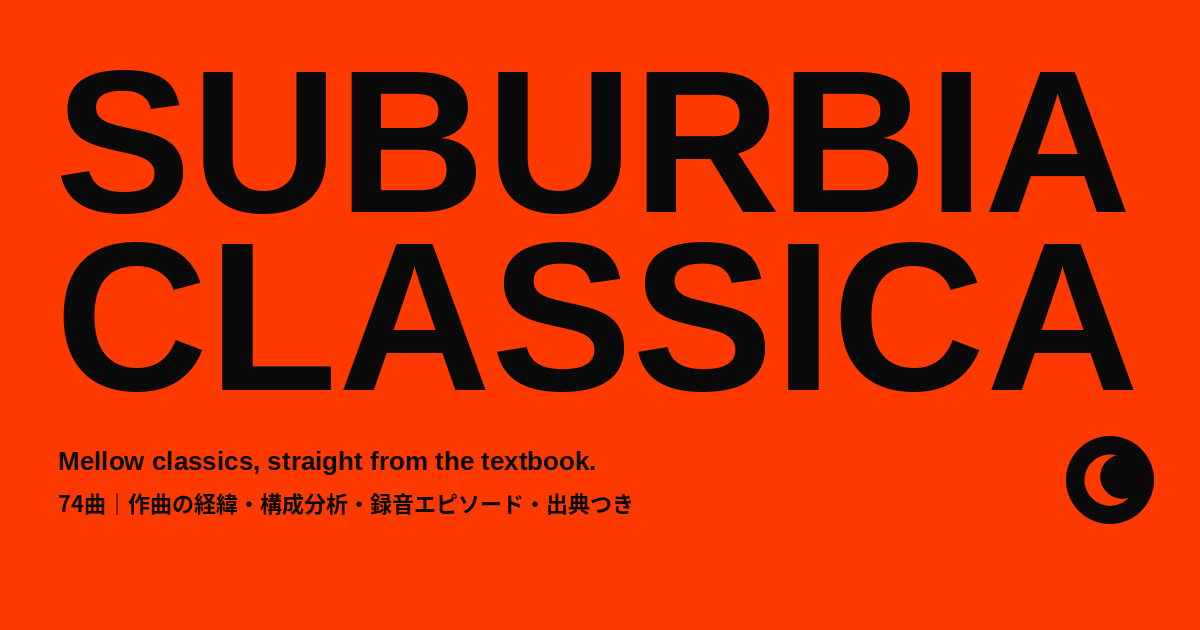
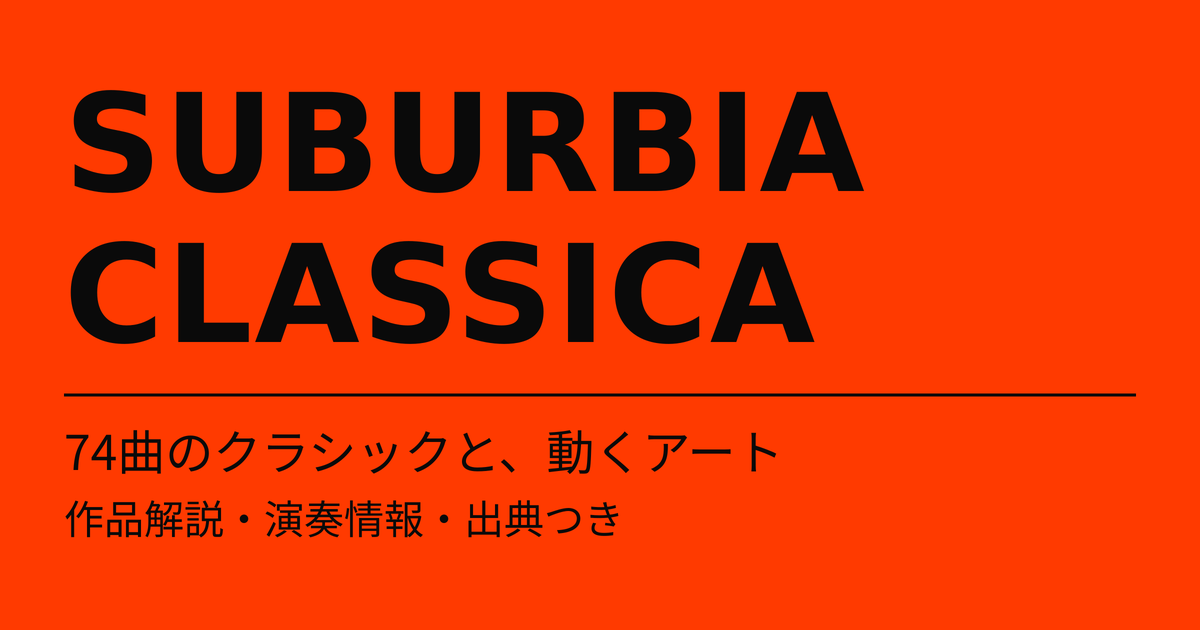
Improve home social-card typography and version the preview image

diff --git a/index.html b/index.html
@@ -5,7 +5,7 @@
 <meta name="viewport" content="width=device-width, initial-scale=1, viewport-fit=cover">
 <title>SUBURBIA CLASSICA — A Mellow Classical Selection</title>
 <!--SEO:BEGIN-->
-<meta name="description" content="メロウ・ピアノ・クラシック。教科書・映画・CMで親しまれる名曲を、作曲の経緯・構成分析・録音エピソード・出典つきで詳しく紹介する楽曲データベース。YouTubeで無料再生、曲が終わると次の曲へ。"><link rel="canonical" href="https://djnaoyaman.github.io/suburbia-classica/" data-home="https://djnaoyaman.github.io/suburbia-classica/"><meta name="robots" content="index,follow,max-image-preview:large,max-snippet:-1"><meta name="application-name" content="SUBURBIA CLASSICA"><meta name="apple-mobile-web-app-title" content="SUBURBIA"><meta name="apple-mobile-web-app-capable" content="yes"><meta name="mobile-web-app-capable" content="yes"><meta name="apple-mobile-web-app-status-bar-style" content="black-translucent"><meta name="format-detection" content="telephone=no"><meta property="og:site_name" content="SUBURBIA CLASSICA"><meta property="og:type" content="website"><meta property="og:title" content="SUBURBIA CLASSICA — A Mellow Classical Selection"><meta property="og:description" content="メロウ・ピアノ・クラシック。教科書・映画・CMで親しまれる名曲を、作曲の経緯・構成分析・録音エピソード・出典つきで詳しく紹介する楽曲データベース。YouTubeで無料再生、曲が終わると次の曲へ。"><meta property="og:url" content="https://djnaoyaman.github.io/suburbia-classica/"><meta property="og:image" content="https://djnaoyaman.github.io/suburbia-classica/og-image.png"><meta property="og:image:width" content="1200"><meta property="og:image:height" content="630"><meta property="og:image:alt" content="SUBURBIA CLASSICA — A Mellow Classical Selection"><meta property="og:locale" content="ja_JP"><meta name="twitter:card" content="summary_large_image"><meta name="twitter:title" content="SUBURBIA CLASSICA — A Mellow Classical Selection"><meta name="twitter:description" content="メロウ・ピアノ・クラシック。教科書・映画・CMで親しまれる名曲を、作曲の経緯・構成分析・録音エピソード・出典つきで詳しく紹介する楽曲データベース。YouTubeで無料再生、曲が終わると次の曲へ。"><meta name="twitter:image" content="https://djnaoyaman.github.io/suburbia-classica/og-image.png"><link rel="icon" href="favicon.ico" sizes="48x48"><link rel="icon" type="image/svg+xml" href="favicon.svg"><link rel="icon" type="image/png" sizes="32x32" href="favicon-32x32.png"><link rel="icon" type="image/png" sizes="16x16" href="favicon-16x16.png"><link rel="apple-touch-icon" sizes="180x180" href="apple-touch-icon.png"><link rel="manifest" href="site.webmanifest"><meta name="msapplication-TileColor" content="#ff3a00"><meta name="msapplication-config" content="browserconfig.xml"><meta name="theme-color" content="#ff3a00"><meta name="color-scheme" content="light"><link rel="alternate" type="text/plain" href="llms.txt" title="llms.txt"><link rel="sitemap" type="application/xml" href="sitemap.xml"><script type="application/ld+json">{"@context": "https://schema.org", "@type": "WebSite", "@id": "https://djnaoyaman.github.io/suburbia-classica/#website", "name": "SUBURBIA CLASSICA", "alternateName": ["サバービア・クラシカ", "SUBURBIA CLASSICA — A Mellow Classical Selection"], "url": "https://djnaoyaman.github.io/suburbia-classica/", "inLanguage": "ja", "description": "メロウ・ピアノ・クラシック。教科書・映画・CMで親しまれる名曲を、作曲の経緯・構成分析・録音エピソード・出典つきで詳しく紹介する楽曲データベース。YouTubeで無料再生、曲が終わると次の曲へ。"}</script><script type="application/ld+json">{"@context": "https://schema.org", "@type": "ItemList", "name": "Songs", "numberOfItems": 74, "itemListElement": [{"@type": "ListItem", "position": 1, "url": "https://djnaoyaman.github.io/suburbia-classica/songs/fur-elise.html", "name": "エリーゼのために"}, {"@type": "ListItem", "position": 2, "url": "https://djnaoyaman.github.io/suburbia-classica/songs/moonlight.html", "name": "ピアノソナタ第14番「月光」第1楽章"}, {"@type": "ListItem", "position": 3, "url": "https://djnaoyaman.github.io/suburbia-classica/songs/tristesse.html", "name": "別れの曲（練習曲 Op.10-3）"}, {"@type": "ListItem", "position": 4, "url": "https://djnaoyaman.github.io/suburbia-classica/songs/fantaisie-impromptu.html", "name": "幻想即興曲"}, {"@type": "ListItem", "position": 5, "url": "https://djnaoyaman.github.io/suburbia-classica/songs/nocturne-9-2.html", "name": "ノクターン第2番"}, {"@type": "ListItem", "position": 6, "url": "https://djnaoyaman.github.io/suburbia-classica/songs/raindrop.html", "name": "前奏曲 第15番「雨だれ」"}, {"@type": "ListItem", "position": 7, "url": "https://djnaoyaman.github.io/suburbia-classica/songs/clair-de-lune.html", "name": "月の光（ベルガマスク組曲 第3曲）"}, {"@type": "ListItem", "position": 8, "url": "https://djnaoyaman.github.io/suburbia-classica/songs/gymnopedie-1.html", "name": "ジムノペディ 第1番"}, {"@type": "ListItem", "position": 9, "url": "https://djnaoyaman.github.io/suburbia-classica/songs/traumerei.html", "name": "トロイメライ（子供の情景 第7曲）"}, {"@type": "ListItem", "position": 10, "url": "https://djnaoyaman.github.io/suburbia-classica/songs/liebestraum-3.html", "name": "愛の夢 第3番"}, {"@type": "ListItem", "position": 11, "url": "https://djnaoyaman.github.io/suburbia-classica/songs/flaxen-hair.html", "name": "亜麻色の髪の乙女（前奏曲集第1巻 第8曲）"}, {"@type": "ListItem", "position": 12, "url": "https://djnaoyaman.github.io/suburbia-classica/songs/arabesque-1.html", "name": "アラベスク第1番（2つのアラベスクより）"}, {"@type": "ListItem", "position": 13, "url": "https://djnaoyaman.github.io/suburbia-classica/songs/prelude-bwv846.html", "name": "平均律クラヴィーア曲集第1巻 第1番 前奏曲 ハ長調"}, {"@type": "ListItem", "position": 14, "url": "https://djnaoyaman.github.io/suburbia-classica/songs/pavane.html", "name": "亡き王女のためのパヴァーヌ（ピアノ原曲）"}, {"@type": "ListItem", "position": 15, "url": "https://djnaoyaman.github.io/suburbia-classica/songs/nocturne-20.html", "name": "ノクターン第20番 嬰ハ短調 遺作(レント・コン・グラン・エスプレッシオーネ)"}, {"@type": "ListItem", "position": 16, "url": "https://djnaoyaman.github.io/suburbia-classica/songs/pathetique-2.html", "name": "ピアノソナタ第8番「悲愴」 第2楽章"}, {"@type": "ListItem", "position": 17, "url": "https://djnaoyaman.github.io/suburbia-classica/songs/k331-1.html", "name": "ピアノ・ソナタ第11番 イ長調 K.331 第1楽章（主題と6つの変奏）"}, {"@type": "ListItem", "position": 18, "url": "https://djnaoyaman.github.io/suburbia-classica/songs/prelude-7.html", "name": "前奏曲第7番 イ長調 Op.28-7"}, {"@type": "ListItem", "position": 19, "url": "https://djnaoyaman.github.io/suburbia-classica/songs/brahms-waltz-15.html", "name": "16のワルツ Op.39 第15番 変イ長調（ピアノ独奏版）"}, {"@type": "ListItem", "position": 20, "url": "https://djnaoyaman.github.io/suburbia-classica/songs/mendelssohn-spring-song.html", "name": "無言歌集 第5巻 Op.62-6「春の歌」"}, {"@type": "ListItem", "position": 21, "url": "https://djnaoyaman.github.io/suburbia-classica/songs/goldberg-aria.html", "name": "ゴルトベルク変奏曲 アリア"}, {"@type": "ListItem", "position": 22, "url": "https://djnaoyaman.github.io/suburbia-classica/songs/reverie.html", "name": "夢（Rêverie）"}, {"@type": "ListItem", "position": 23, "url": "https://djnaoyaman.github.io/suburbia-classica/songs/gnossienne-1.html", "name": "グノシエンヌ 第1番"}, {"@type": "ListItem", "position": 24, "url": "https://djnaoyaman.github.io/suburbia-classica/songs/waltz-64-2.html", "name": "ワルツ第7番 嬰ハ短調 Op.64-2"}, {"@type": "ListItem", "position": 25, "url": "https://djnaoyaman.github.io/suburbia-classica/songs/waltz-69-1.html", "name": "ワルツ第9番 変イ長調 Op.69-1『別れのワルツ』"}, {"@type": "ListItem", "position": 26, "url": "https://djnaoyaman.github.io/suburbia-classica/songs/tchaikovsky-october.html", "name": "四季 Op.37a 第10曲 10月「秋の歌」"}, {"@type": "ListItem", "position": 27, "url": "https://djnaoyaman.github.io/suburbia-classica/songs/k310-2.html", "name": "ピアノ・ソナタ第8番 イ短調 K.310 第2楽章 アンダンテ・カンタービレ・コン・エスプレッシオーネ"}, {"@type": "ListItem", "position": 28, "url": "https://djnaoyaman.github.io/suburbia-classica/songs/schubert-impromptu-90-3.html", "name": "4つの即興曲 Op.90 D.899 第3番 変ト長調"}, {"@type": "ListItem", "position": 29, "url": "https://djnaoyaman.github.io/suburbia-classica/songs/brahms-op118-2.html", "name": "6つの小品 Op.118 第2番 間奏曲 イ長調"}, {"@type": "ListItem", "position": 30, "url": "https://djnaoyaman.github.io/suburbia-classica/songs/canon.html", "name": "カノン（パッヘルベルのカノン）"}, {"@type": "ListItem", "position": 31, "url": "https://djnaoyaman.github.io/suburbia-classica/songs/air-g-string.html", "name": "G線上のアリア"}, {"@type": "ListItem", "position": 32, "url": "https://djnaoyaman.github.io/suburbia-classica/songs/jesu-joy.html", "name": "主よ人の望みの喜びよ"}, {"@type": "ListItem", "position": 33, "url": "https://djnaoyaman.github.io/suburbia-classica/songs/rach-pc2-2.html", "name": "ピアノ協奏曲第2番 第2楽章"}, {"@type": "ListItem", "position": 34, "url": "https://djnaoyaman.github.io/suburbia-classica/songs/schubert-ave-maria.html", "name": "アヴェ・マリア（エレンの歌 第3番）"}, {"@type": "ListItem", "position": 35, "url": "https://djnaoyaman.github.io/suburbia-classica/songs/liebesgruss.html", "name": "愛のあいさつ"}, {"@type": "ListItem", "position": 36, "url": "https://djnaoyaman.github.io/suburbia-classica/songs/vocalise.html", "name": "ヴォカリーズ"}, {"@type": "ListItem", "position": 37, "url": "https://djnaoyaman.github.io/suburbia-classica/songs/brahms-lullaby.html", "name": "ブラームスの子守歌"}, {"@type": "ListItem", "position": 38, "url": "https://djnaoyaman.github.io/suburbia-classica/songs/mozart-pc21-2.html", "name": "ピアノ協奏曲第21番 第2楽章"}, {"@type": "ListItem", "position": 39, "url": "https://djnaoyaman.github.io/suburbia-classica/songs/faure-apres-un-reve.html", "name": "夢のあとに"}, {"@type": "ListItem", "position": 40, "url": "https://djnaoyaman.github.io/suburbia-classica/songs/paganini-var18.html", "name": "パガニーニの主題による狂詩曲 第18変奏"}, {"@type": "ListItem", "position": 41, "url": "https://djnaoyaman.github.io/suburbia-classica/songs/solveigs-song.html", "name": "ソルヴェイグの歌"}, {"@type": "ListItem", "position": 42, "url": "https://djnaoyaman.github.io/suburbia-classica/songs/beethoven-5.html", "name": "交響曲第5番 ハ短調 作品67「運命」第1楽章"}, {"@type": "ListItem", "position": 43, "url": "https://djnaoyaman.github.io/suburbia-classica/songs/beethoven-9.html", "name": "交響曲第9番 ニ短調 作品125「合唱付き」第4楽章「歓喜の歌」"}, {"@type": "ListItem", "position": 44, "url": "https://djnaoyaman.github.io/suburbia-classica/songs/vivaldi-spring.html", "name": "ヴァイオリン協奏曲集「四季」より 春 第1楽章 (協奏曲 ホ長調 作品8-1 RV269)"}, {"@type": "ListItem", "position": 45, "url": "https://djnaoyaman.github.io/suburbia-classica/songs/largo-new-world.html", "name": "交響曲第9番 ホ短調「新世界より」第2楽章 ラルゴ（「家路」）"}, {"@type": "ListItem", "position": 46, "url": "https://djnaoyaman.github.io/suburbia-classica/songs/bolero.html", "name": "ボレロ"}, {"@type": "ListItem", "position": 47, "url": "https://djnaoyaman.github.io/suburbia-classica/songs/pomp-circumstance-1.html", "name": "行進曲「威風堂々」第1番"}, {"@type": "ListItem", "position": 48, "url": "https://djnaoyaman.github.io/suburbia-classica/songs/eine-kleine.html", "name": "アイネ・クライネ・ナハトムジーク K.525 第1楽章"}, {"@type": "ListItem", "position": 49, "url": "https://djnaoyaman.github.io/suburbia-classica/songs/pictures.html", "name": "ムソルグスキー作曲（ラヴェル編曲）組曲「展覧会の絵」"}, {"@type": "ListItem", "position": 50, "url": "https://djnaoyaman.github.io/suburbia-classica/songs/le-cygne.html", "name": "動物の謝肉祭 第13曲「白鳥」（チェロとピアノ版を中心に）"}, {"@type": "ListItem", "position": 51, "url": "https://djnaoyaman.github.io/suburbia-classica/songs/jupiter.html", "name": "組曲「惑星」より 木星（快楽をもたらす者）"}, {"@type": "ListItem", "position": 52, "url": "https://djnaoyaman.github.io/suburbia-classica/songs/toccata-fugue-dm.html", "name": "トッカータとフーガ ニ短調 BWV565"}, {"@type": "ListItem", "position": 53, "url": "https://djnaoyaman.github.io/suburbia-classica/songs/farandole.html", "name": "ビゼー「アルルの女」第2組曲より ファランドール"}, {"@type": "ListItem", "position": 54, "url": "https://djnaoyaman.github.io/suburbia-classica/songs/carmen-prelude.html", "name": "歌劇「カルメン」前奏曲（第1幕への前奏曲）"}, {"@type": "ListItem", "position": 55, "url": "https://djnaoyaman.github.io/suburbia-classica/songs/cavalleria-intermezzo.html", "name": "歌劇「カヴァレリア・ルスティカーナ」間奏曲"}, {"@type": "ListItem", "position": 56, "url": "https://djnaoyaman.github.io/suburbia-classica/songs/barber-adagio.html", "name": "弦楽のためのアダージョ 作品11"}, {"@type": "ListItem", "position": 57, "url": "https://djnaoyaman.github.io/suburbia-classica/songs/nessun-dorma.html", "name": "歌劇「トゥーランドット」より 誰も寝てはならぬ"}, {"@type": "ListItem", "position": 58, "url": "https://djnaoyaman.github.io/suburbia-classica/songs/brindisi.html", "name": "歌劇「椿姫」より 乾杯の歌"}, {"@type": "ListItem", "position": 59, "url": "https://djnaoyaman.github.io/suburbia-classica/songs/habanera.html", "name": "歌劇「カルメン」より ハバネラ（恋は野の鳥）"}, {"@type": "ListItem", "position": 60, "url": "https://djnaoyaman.github.io/suburbia-classica/songs/orpheus-overture.html", "name": "喜歌劇「天国と地獄」序曲（カンカンを含む）"}, {"@type": "ListItem", "position": 61, "url": "https://djnaoyaman.github.io/suburbia-classica/songs/william-tell-overture.html", "name": "歌劇「ウィリアム・テル」序曲（終曲：スイス兵の行進）"}, {"@type": "ListItem", "position": 62, "url": "https://djnaoyaman.github.io/suburbia-classica/songs/queen-of-night.html", "name": "歌劇「魔笛」より 夜の女王のアリア「復讐の心は地獄のように我が胸に燃え」"}, {"@type": "ListItem", "position": 63, "url": "https://djnaoyaman.github.io/suburbia-classica/songs/toreador.html", "name": "歌劇「カルメン」より 闘牛士の歌（諸君の乾杯を受けよう）"}, {"@type": "ListItem", "position": 64, "url": "https://djnaoyaman.github.io/suburbia-classica/songs/figaro-letter-duet.html", "name": "歌劇「フィガロの結婚」より 手紙の二重唱（そよ風によせて）"}, {"@type": "ListItem", "position": 65, "url": "https://djnaoyaman.github.io/suburbia-classica/songs/flower-duet.html", "name": "歌劇「ラクメ」より 花の二重唱"}, {"@type": "ListItem", "position": 66, "url": "https://djnaoyaman.github.io/suburbia-classica/songs/o-mio-babbino.html", "name": "私のお父さん（歌劇「ジャンニ・スキッキ」より）"}, {"@type": "ListItem", "position": 67, "url": "https://djnaoyaman.github.io/suburbia-classica/songs/lascia-ch-io-pianga.html", "name": "私を泣かせてください（歌劇「リナルド」より）"}, {"@type": "ListItem", "position": 68, "url": "https://djnaoyaman.github.io/suburbia-classica/songs/rojo-no-tsuki.html", "name": "荒城の月"}, {"@type": "ListItem", "position": 69, "url": "https://djnaoyaman.github.io/suburbia-classica/songs/heidenroslein.html", "name": "野ばら"}, {"@type": "ListItem", "position": 70, "url": "https://djnaoyaman.github.io/suburbia-classica/songs/ave-verum-corpus.html", "name": "アヴェ・ヴェルム・コルプス K.618"}, {"@type": "ListItem", "position": 71, "url": "https://djnaoyaman.github.io/suburbia-classica/songs/erlkonig.html", "name": "魔王"}, {"@type": "ListItem", "position": 72, "url": "https://djnaoyaman.github.io/suburbia-classica/songs/caccini-ave-maria.html", "name": "カッチーニのアヴェ・マリア"}, {"@type": "ListItem", "position": 73, "url": "https://djnaoyaman.github.io/suburbia-classica/songs/faure-pie-jesu.html", "name": "ピエ・イェズ（フォーレ《レクイエム》作品48 第4曲）"}, {"@type": "ListItem", "position": 74, "url": "https://djnaoyaman.github.io/suburbia-classica/songs/verdi-dies-irae.html", "name": "怒りの日（ディエス・イレ）（ヴェルディ《レクイエム》第2曲の冒頭）"}]}</script>
+<meta name="description" content="メロウ・ピアノ・クラシック。教科書・映画・CMで親しまれる名曲を、作曲の経緯・構成分析・録音エピソード・出典つきで詳しく紹介する楽曲データベース。YouTubeで無料再生、曲が終わると次の曲へ。"><link rel="canonical" href="https://djnaoyaman.github.io/suburbia-classica/" data-home="https://djnaoyaman.github.io/suburbia-classica/"><meta name="robots" content="index,follow,max-image-preview:large,max-snippet:-1"><meta name="application-name" content="SUBURBIA CLASSICA"><meta name="apple-mobile-web-app-title" content="SUBURBIA"><meta name="apple-mobile-web-app-capable" content="yes"><meta name="mobile-web-app-capable" content="yes"><meta name="apple-mobile-web-app-status-bar-style" content="black-translucent"><meta name="format-detection" content="telephone=no"><meta property="og:site_name" content="SUBURBIA CLASSICA"><meta property="og:type" content="website"><meta property="og:title" content="SUBURBIA CLASSICA — A Mellow Classical Selection"><meta property="og:description" content="メロウ・ピアノ・クラシック。教科書・映画・CMで親しまれる名曲を、作曲の経緯・構成分析・録音エピソード・出典つきで詳しく紹介する楽曲データベース。YouTubeで無料再生、曲が終わると次の曲へ。"><meta property="og:url" content="https://djnaoyaman.github.io/suburbia-classica/"><meta property="og:image" content="https://djnaoyaman.github.io/suburbia-classica/ogp/suburbia-classica-v2.png"><meta property="og:image:type" content="image/png"><meta property="og:image:width" content="1200"><meta property="og:image:height" content="630"><meta property="og:image:alt" content="SUBURBIA CLASSICA。74曲のクラシックと、動くアート。作品解説・演奏情報・出典つき。"><meta property="og:locale" content="ja_JP"><meta name="twitter:card" content="summary_large_image"><meta name="twitter:title" content="SUBURBIA CLASSICA — A Mellow Classical Selection"><meta name="twitter:description" content="メロウ・ピアノ・クラシック。教科書・映画・CMで親しまれる名曲を、作曲の経緯・構成分析・録音エピソード・出典つきで詳しく紹介する楽曲データベース。YouTubeで無料再生、曲が終わると次の曲へ。"><meta name="twitter:image" content="https://djnaoyaman.github.io/suburbia-classica/ogp/suburbia-classica-v2.png"><meta name="twitter:image:alt" content="SUBURBIA CLASSICA。74曲のクラシックと、動くアート。作品解説・演奏情報・出典つき。"><link rel="icon" href="favicon.ico" sizes="48x48"><link rel="icon" type="image/svg+xml" href="favicon.svg"><link rel="icon" type="image/png" sizes="32x32" href="favicon-32x32.png"><link rel="icon" type="image/png" sizes="16x16" href="favicon-16x16.png"><link rel="apple-touch-icon" sizes="180x180" href="apple-touch-icon.png"><link rel="manifest" href="site.webmanifest"><meta name="msapplication-TileColor" content="#ff3a00"><meta name="msapplication-config" content="browserconfig.xml"><meta name="theme-color" content="#ff3a00"><meta name="color-scheme" content="light"><link rel="alternate" type="text/plain" href="llms.txt" title="llms.txt"><link rel="sitemap" type="application/xml" href="sitemap.xml"><script type="application/ld+json">{"@context": "https://schema.org", "@type": "WebSite", "@id": "https://djnaoyaman.github.io/suburbia-classica/#website", "name": "SUBURBIA CLASSICA", "alternateName": ["サバービア・クラシカ", "SUBURBIA CLASSICA — A Mellow Classical Selection"], "url": "https://djnaoyaman.github.io/suburbia-classica/", "inLanguage": "ja", "description": "メロウ・ピアノ・クラシック。教科書・映画・CMで親しまれる名曲を、作曲の経緯・構成分析・録音エピソード・出典つきで詳しく紹介する楽曲データベース。YouTubeで無料再生、曲が終わると次の曲へ。"}</script><script type="application/ld+json">{"@context": "https://schema.org", "@type": "ItemList", "name": "Songs", "numberOfItems": 74, "itemListElement": [{"@type": "ListItem", "position": 1, "url": "https://djnaoyaman.github.io/suburbia-classica/songs/fur-elise.html", "name": "エリーゼのために"}, {"@type": "ListItem", "position": 2, "url": "https://djnaoyaman.github.io/suburbia-classica/songs/moonlight.html", "name": "ピアノソナタ第14番「月光」第1楽章"}, {"@type": "ListItem", "position": 3, "url": "https://djnaoyaman.github.io/suburbia-classica/songs/tristesse.html", "name": "別れの曲（練習曲 Op.10-3）"}, {"@type": "ListItem", "position": 4, "url": "https://djnaoyaman.github.io/suburbia-classica/songs/fantaisie-impromptu.html", "name": "幻想即興曲"}, {"@type": "ListItem", "position": 5, "url": "https://djnaoyaman.github.io/suburbia-classica/songs/nocturne-9-2.html", "name": "ノクターン第2番"}, {"@type": "ListItem", "position": 6, "url": "https://djnaoyaman.github.io/suburbia-classica/songs/raindrop.html", "name": "前奏曲 第15番「雨だれ」"}, {"@type": "ListItem", "position": 7, "url": "https://djnaoyaman.github.io/suburbia-classica/songs/clair-de-lune.html", "name": "月の光（ベルガマスク組曲 第3曲）"}, {"@type": "ListItem", "position": 8, "url": "https://djnaoyaman.github.io/suburbia-classica/songs/gymnopedie-1.html", "name": "ジムノペディ 第1番"}, {"@type": "ListItem", "position": 9, "url": "https://djnaoyaman.github.io/suburbia-classica/songs/traumerei.html", "name": "トロイメライ（子供の情景 第7曲）"}, {"@type": "ListItem", "position": 10, "url": "https://djnaoyaman.github.io/suburbia-classica/songs/liebestraum-3.html", "name": "愛の夢 第3番"}, {"@type": "ListItem", "position": 11, "url": "https://djnaoyaman.github.io/suburbia-classica/songs/flaxen-hair.html", "name": "亜麻色の髪の乙女（前奏曲集第1巻 第8曲）"}, {"@type": "ListItem", "position": 12, "url": "https://djnaoyaman.github.io/suburbia-classica/songs/arabesque-1.html", "name": "アラベスク第1番（2つのアラベスクより）"}, {"@type": "ListItem", "position": 13, "url": "https://djnaoyaman.github.io/suburbia-classica/songs/prelude-bwv846.html", "name": "平均律クラヴィーア曲集第1巻 第1番 前奏曲 ハ長調"}, {"@type": "ListItem", "position": 14, "url": "https://djnaoyaman.github.io/suburbia-classica/songs/pavane.html", "name": "亡き王女のためのパヴァーヌ（ピアノ原曲）"}, {"@type": "ListItem", "position": 15, "url": "https://djnaoyaman.github.io/suburbia-classica/songs/nocturne-20.html", "name": "ノクターン第20番 嬰ハ短調 遺作(レント・コン・グラン・エスプレッシオーネ)"}, {"@type": "ListItem", "position": 16, "url": "https://djnaoyaman.github.io/suburbia-classica/songs/pathetique-2.html", "name": "ピアノソナタ第8番「悲愴」 第2楽章"}, {"@type": "ListItem", "position": 17, "url": "https://djnaoyaman.github.io/suburbia-classica/songs/k331-1.html", "name": "ピアノ・ソナタ第11番 イ長調 K.331 第1楽章（主題と6つの変奏）"}, {"@type": "ListItem", "position": 18, "url": "https://djnaoyaman.github.io/suburbia-classica/songs/prelude-7.html", "name": "前奏曲第7番 イ長調 Op.28-7"}, {"@type": "ListItem", "position": 19, "url": "https://djnaoyaman.github.io/suburbia-classica/songs/brahms-waltz-15.html", "name": "16のワルツ Op.39 第15番 変イ長調（ピアノ独奏版）"}, {"@type": "ListItem", "position": 20, "url": "https://djnaoyaman.github.io/suburbia-classica/songs/mendelssohn-spring-song.html", "name": "無言歌集 第5巻 Op.62-6「春の歌」"}, {"@type": "ListItem", "position": 21, "url": "https://djnaoyaman.github.io/suburbia-classica/songs/goldberg-aria.html", "name": "ゴルトベルク変奏曲 アリア"}, {"@type": "ListItem", "position": 22, "url": "https://djnaoyaman.github.io/suburbia-classica/songs/reverie.html", "name": "夢（Rêverie）"}, {"@type": "ListItem", "position": 23, "url": "https://djnaoyaman.github.io/suburbia-classica/songs/gnossienne-1.html", "name": "グノシエンヌ 第1番"}, {"@type": "ListItem", "position": 24, "url": "https://djnaoyaman.github.io/suburbia-classica/songs/waltz-64-2.html", "name": "ワルツ第7番 嬰ハ短調 Op.64-2"}, {"@type": "ListItem", "position": 25, "url": "https://djnaoyaman.github.io/suburbia-classica/songs/waltz-69-1.html", "name": "ワルツ第9番 変イ長調 Op.69-1『別れのワルツ』"}, {"@type": "ListItem", "position": 26, "url": "https://djnaoyaman.github.io/suburbia-classica/songs/tchaikovsky-october.html", "name": "四季 Op.37a 第10曲 10月「秋の歌」"}, {"@type": "ListItem", "position": 27, "url": "https://djnaoyaman.github.io/suburbia-classica/songs/k310-2.html", "name": "ピアノ・ソナタ第8番 イ短調 K.310 第2楽章 アンダンテ・カンタービレ・コン・エスプレッシオーネ"}, {"@type": "ListItem", "position": 28, "url": "https://djnaoyaman.github.io/suburbia-classica/songs/schubert-impromptu-90-3.html", "name": "4つの即興曲 Op.90 D.899 第3番 変ト長調"}, {"@type": "ListItem", "position": 29, "url": "https://djnaoyaman.github.io/suburbia-classica/songs/brahms-op118-2.html", "name": "6つの小品 Op.118 第2番 間奏曲 イ長調"}, {"@type": "ListItem", "position": 30, "url": "https://djnaoyaman.github.io/suburbia-classica/songs/canon.html", "name": "カノン（パッヘルベルのカノン）"}, {"@type": "ListItem", "position": 31, "url": "https://djnaoyaman.github.io/suburbia-classica/songs/air-g-string.html", "name": "G線上のアリア"}, {"@type": "ListItem", "position": 32, "url": "https://djnaoyaman.github.io/suburbia-classica/songs/jesu-joy.html", "name": "主よ人の望みの喜びよ"}, {"@type": "ListItem", "position": 33, "url": "https://djnaoyaman.github.io/suburbia-classica/songs/rach-pc2-2.html", "name": "ピアノ協奏曲第2番 第2楽章"}, {"@type": "ListItem", "position": 34, "url": "https://djnaoyaman.github.io/suburbia-classica/songs/schubert-ave-maria.html", "name": "アヴェ・マリア（エレンの歌 第3番）"}, {"@type": "ListItem", "position": 35, "url": "https://djnaoyaman.github.io/suburbia-classica/songs/liebesgruss.html", "name": "愛のあいさつ"}, {"@type": "ListItem", "position": 36, "url": "https://djnaoyaman.github.io/suburbia-classica/songs/vocalise.html", "name": "ヴォカリーズ"}, {"@type": "ListItem", "position": 37, "url": "https://djnaoyaman.github.io/suburbia-classica/songs/brahms-lullaby.html", "name": "ブラームスの子守歌"}, {"@type": "ListItem", "position": 38, "url": "https://djnaoyaman.github.io/suburbia-classica/songs/mozart-pc21-2.html", "name": "ピアノ協奏曲第21番 第2楽章"}, {"@type": "ListItem", "position": 39, "url": "https://djnaoyaman.github.io/suburbia-classica/songs/faure-apres-un-reve.html", "name": "夢のあとに"}, {"@type": "ListItem", "position": 40, "url": "https://djnaoyaman.github.io/suburbia-classica/songs/paganini-var18.html", "name": "パガニーニの主題による狂詩曲 第18変奏"}, {"@type": "ListItem", "position": 41, "url": "https://djnaoyaman.github.io/suburbia-classica/songs/solveigs-song.html", "name": "ソルヴェイグの歌"}, {"@type": "ListItem", "position": 42, "url": "https://djnaoyaman.github.io/suburbia-classica/songs/beethoven-5.html", "name": "交響曲第5番 ハ短調 作品67「運命」第1楽章"}, {"@type": "ListItem", "position": 43, "url": "https://djnaoyaman.github.io/suburbia-classica/songs/beethoven-9.html", "name": "交響曲第9番 ニ短調 作品125「合唱付き」第4楽章「歓喜の歌」"}, {"@type": "ListItem", "position": 44, "url": "https://djnaoyaman.github.io/suburbia-classica/songs/vivaldi-spring.html", "name": "ヴァイオリン協奏曲集「四季」より 春 第1楽章 (協奏曲 ホ長調 作品8-1 RV269)"}, {"@type": "ListItem", "position": 45, "url": "https://djnaoyaman.github.io/suburbia-classica/songs/largo-new-world.html", "name": "交響曲第9番 ホ短調「新世界より」第2楽章 ラルゴ（「家路」）"}, {"@type": "ListItem", "position": 46, "url": "https://djnaoyaman.github.io/suburbia-classica/songs/bolero.html", "name": "ボレロ"}, {"@type": "ListItem", "position": 47, "url": "https://djnaoyaman.github.io/suburbia-classica/songs/pomp-circumstance-1.html", "name": "行進曲「威風堂々」第1番"}, {"@type": "ListItem", "position": 48, "url": "https://djnaoyaman.github.io/suburbia-classica/songs/eine-kleine.html", "name": "アイネ・クライネ・ナハトムジーク K.525 第1楽章"}, {"@type": "ListItem", "position": 49, "url": "https://djnaoyaman.github.io/suburbia-classica/songs/pictures.html", "name": "ムソルグスキー作曲（ラヴェル編曲）組曲「展覧会の絵」"}, {"@type": "ListItem", "position": 50, "url": "https://djnaoyaman.github.io/suburbia-classica/songs/le-cygne.html", "name": "動物の謝肉祭 第13曲「白鳥」（チェロとピアノ版を中心に）"}, {"@type": "ListItem", "position": 51, "url": "https://djnaoyaman.github.io/suburbia-classica/songs/jupiter.html", "name": "組曲「惑星」より 木星（快楽をもたらす者）"}, {"@type": "ListItem", "position": 52, "url": "https://djnaoyaman.github.io/suburbia-classica/songs/toccata-fugue-dm.html", "name": "トッカータとフーガ ニ短調 BWV565"}, {"@type": "ListItem", "position": 53, "url": "https://djnaoyaman.github.io/suburbia-classica/songs/farandole.html", "name": "ビゼー「アルルの女」第2組曲より ファランドール"}, {"@type": "ListItem", "position": 54, "url": "https://djnaoyaman.github.io/suburbia-classica/songs/carmen-prelude.html", "name": "歌劇「カルメン」前奏曲（第1幕への前奏曲）"}, {"@type": "ListItem", "position": 55, "url": "https://djnaoyaman.github.io/suburbia-classica/songs/cavalleria-intermezzo.html", "name": "歌劇「カヴァレリア・ルスティカーナ」間奏曲"}, {"@type": "ListItem", "position": 56, "url": "https://djnaoyaman.github.io/suburbia-classica/songs/barber-adagio.html", "name": "弦楽のためのアダージョ 作品11"}, {"@type": "ListItem", "position": 57, "url": "https://djnaoyaman.github.io/suburbia-classica/songs/nessun-dorma.html", "name": "歌劇「トゥーランドット」より 誰も寝てはならぬ"}, {"@type": "ListItem", "position": 58, "url": "https://djnaoyaman.github.io/suburbia-classica/songs/brindisi.html", "name": "歌劇「椿姫」より 乾杯の歌"}, {"@type": "ListItem", "position": 59, "url": "https://djnaoyaman.github.io/suburbia-classica/songs/habanera.html", "name": "歌劇「カルメン」より ハバネラ（恋は野の鳥）"}, {"@type": "ListItem", "position": 60, "url": "https://djnaoyaman.github.io/suburbia-classica/songs/orpheus-overture.html", "name": "喜歌劇「天国と地獄」序曲（カンカンを含む）"}, {"@type": "ListItem", "position": 61, "url": "https://djnaoyaman.github.io/suburbia-classica/songs/william-tell-overture.html", "name": "歌劇「ウィリアム・テル」序曲（終曲：スイス兵の行進）"}, {"@type": "ListItem", "position": 62, "url": "https://djnaoyaman.github.io/suburbia-classica/songs/queen-of-night.html", "name": "歌劇「魔笛」より 夜の女王のアリア「復讐の心は地獄のように我が胸に燃え」"}, {"@type": "ListItem", "position": 63, "url": "https://djnaoyaman.github.io/suburbia-classica/songs/toreador.html", "name": "歌劇「カルメン」より 闘牛士の歌（諸君の乾杯を受けよう）"}, {"@type": "ListItem", "position": 64, "url": "https://djnaoyaman.github.io/suburbia-classica/songs/figaro-letter-duet.html", "name": "歌劇「フィガロの結婚」より 手紙の二重唱（そよ風によせて）"}, {"@type": "ListItem", "position": 65, "url": "https://djnaoyaman.github.io/suburbia-classica/songs/flower-duet.html", "name": "歌劇「ラクメ」より 花の二重唱"}, {"@type": "ListItem", "position": 66, "url": "https://djnaoyaman.github.io/suburbia-classica/songs/o-mio-babbino.html", "name": "私のお父さん（歌劇「ジャンニ・スキッキ」より）"}, {"@type": "ListItem", "position": 67, "url": "https://djnaoyaman.github.io/suburbia-classica/songs/lascia-ch-io-pianga.html", "name": "私を泣かせてください（歌劇「リナルド」より）"}, {"@type": "ListItem", "position": 68, "url": "https://djnaoyaman.github.io/suburbia-classica/songs/rojo-no-tsuki.html", "name": "荒城の月"}, {"@type": "ListItem", "position": 69, "url": "https://djnaoyaman.github.io/suburbia-classica/songs/heidenroslein.html", "name": "野ばら"}, {"@type": "ListItem", "position": 70, "url": "https://djnaoyaman.github.io/suburbia-classica/songs/ave-verum-corpus.html", "name": "アヴェ・ヴェルム・コルプス K.618"}, {"@type": "ListItem", "position": 71, "url": "https://djnaoyaman.github.io/suburbia-classica/songs/erlkonig.html", "name": "魔王"}, {"@type": "ListItem", "position": 72, "url": "https://djnaoyaman.github.io/suburbia-classica/songs/caccini-ave-maria.html", "name": "カッチーニのアヴェ・マリア"}, {"@type": "ListItem", "position": 73, "url": "https://djnaoyaman.github.io/suburbia-classica/songs/faure-pie-jesu.html", "name": "ピエ・イェズ（フォーレ《レクイエム》作品48 第4曲）"}, {"@type": "ListItem", "position": 74, "url": "https://djnaoyaman.github.io/suburbia-classica/songs/verdi-dies-irae.html", "name": "怒りの日（ディエス・イレ）（ヴェルディ《レクイエム》第2曲の冒頭）"}]}</script>
 <!--SEO:END-->
 
 

diff --git a/docs/ogp-home-20261025.md b/docs/ogp-home-20261025.md
@@ -1,0 +1,7 @@
+# Readable home social image
+
+1200 × 630 opaque RGB PNG, vermilion #ff3a00 / near-black #0a0a0a matching the existing site. Original code-native typography, not copied artwork. DejaVu Sans Bold and Noto Sans CJK JP Regular, rendered at 2× then downsampled uniformly; no textLength, horizontal scaling or font synthesis. Editable SVG is included.
+
+The old image had the correct dimensions and lossless PNG delivery, but its long small English/Japanese footnotes became illegible at 300px. This revision removes dense copy, increases Japanese explanatory text to 48/40px and retains generous margins. 1200/600/300px and centered 2:1 crop reviewed. The legacy og-image.png contains the same new bytes for direct old URLs; the head uses a new versioned image URL to avoid reusing the old image cache key. Existing social posts/platform caches may still retain older previews; no external posts, account access or cache purge was performed.
+
+Only home social image metadata changes. All application code, 74 catalog entries, artworks, playback, fullscreen credits, resource cache and frame isolation remain byte-identical. This is not a ranking or AI-citation guarantee. Per-song social images and metadata are a separate audit/remediation unit.
